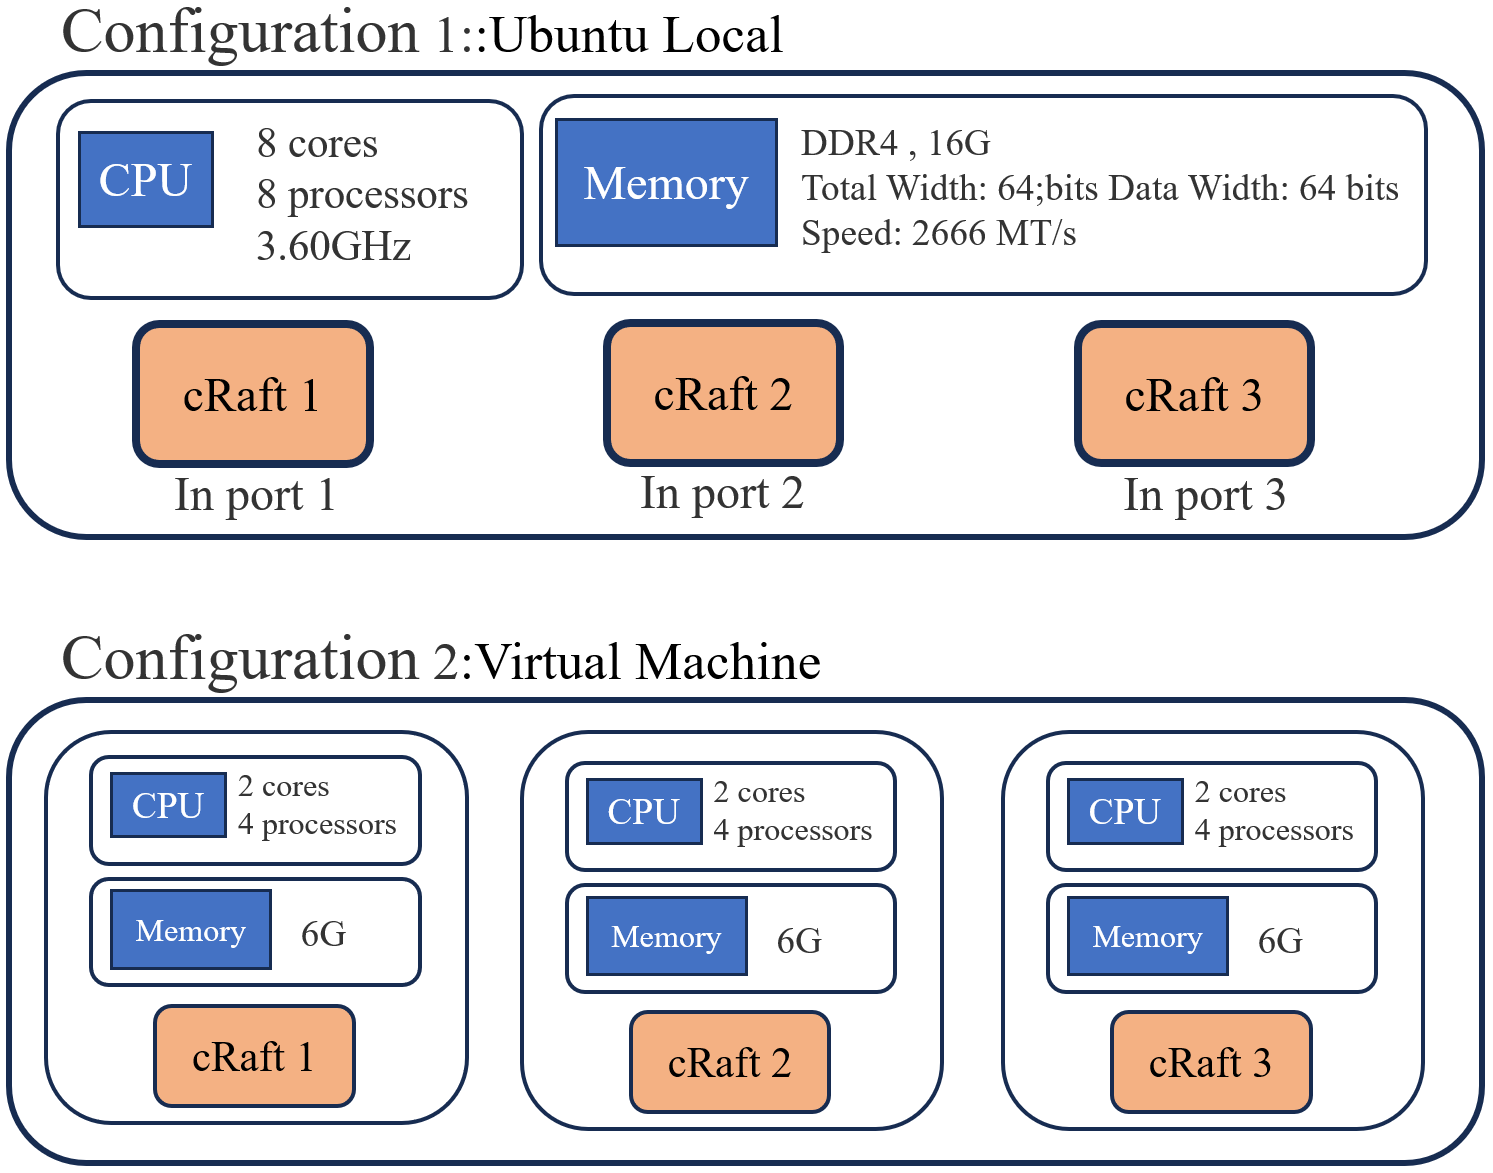
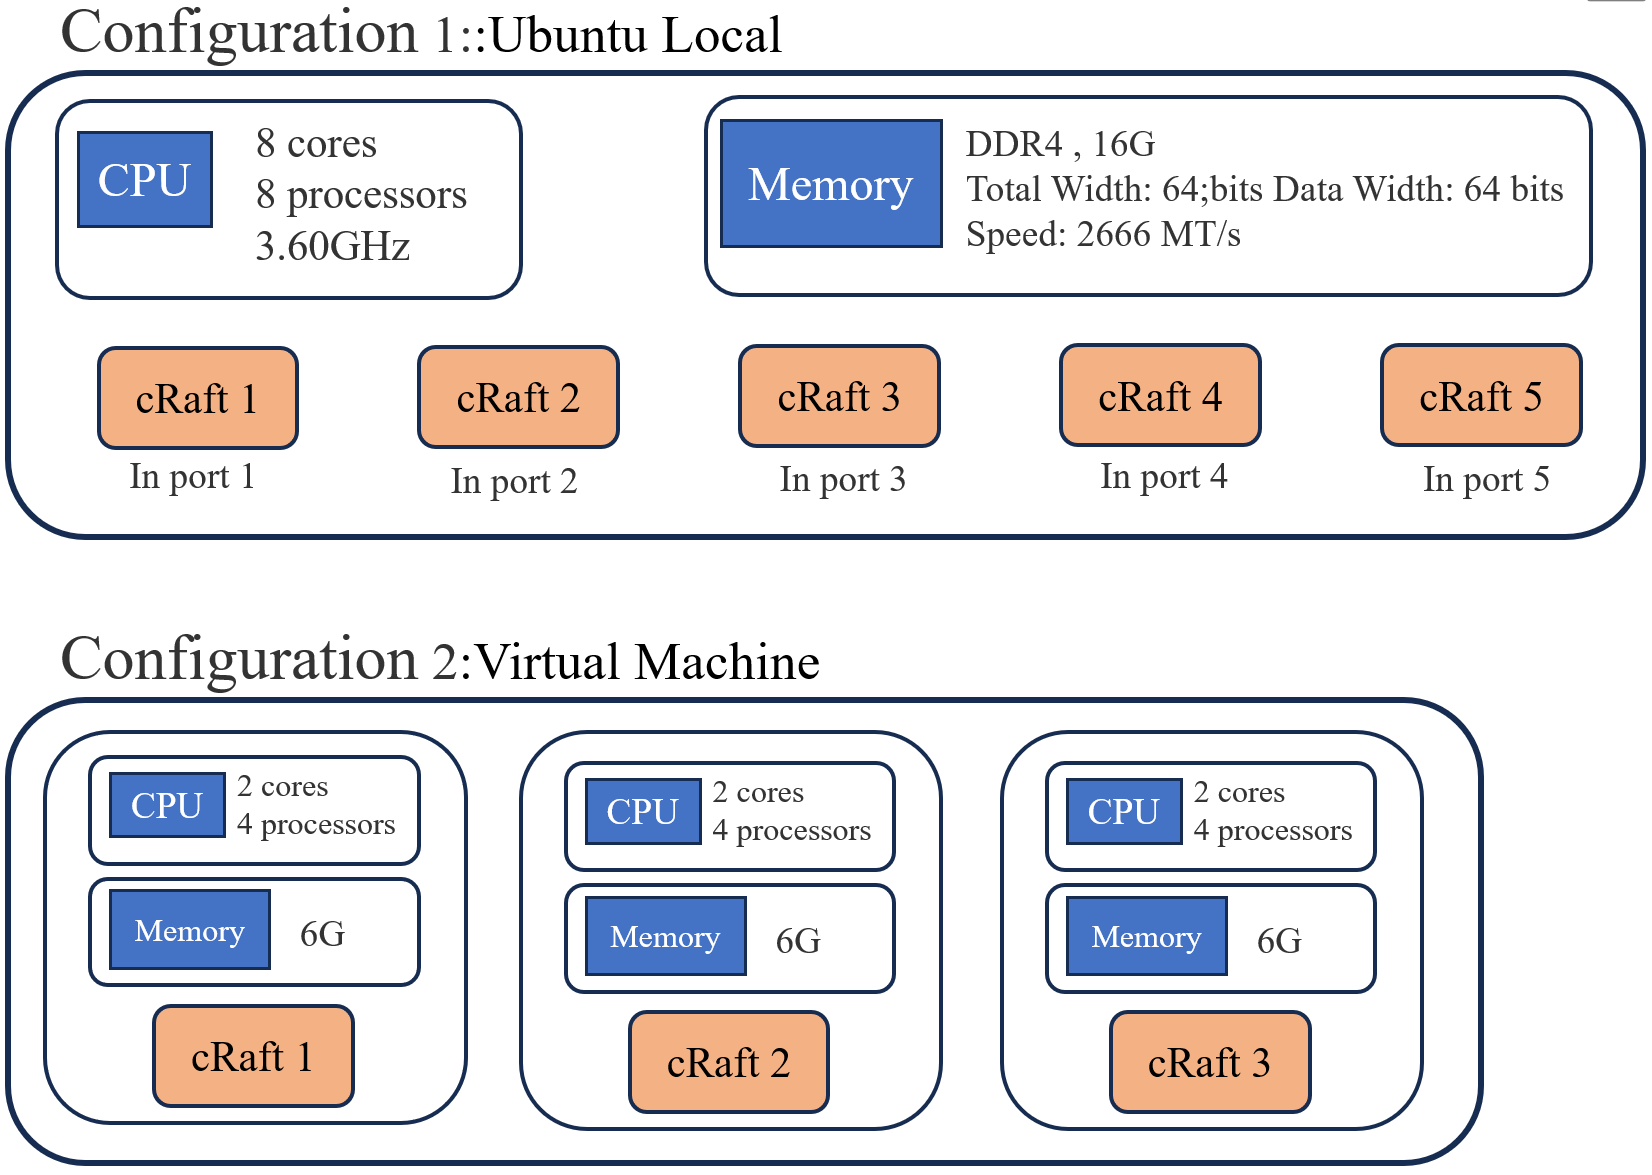
optimized cRaft performance

diff --git a/README.MD b/README.MD
@@ -36,7 +36,7 @@ Evaluation indicators: Cluster submission rate CSR (Cluster submission rate): Th
 
 ![](./img/cRaft-test.png)
 
-> Approximate test results of three cRaft nodes in two configuration environments:
+> Approximate test results of three and five cRaft nodes in two configuration environments:
 
 ![](./img/CSR.png)
 ## Install and use

diff --git a/zh/README.MD b/zh/README.MD
@@ -35,7 +35,7 @@ Raft原论文：[In Search of an Understandable Consensus Algorithm
 
 ![](../img/cRaft-test.png)
 
-> 在两种环境下的三台cRaft节点大致的测试结果：
+> 在两种环境下的三台和五台cRaft节点大致的测试结果：
 
 ![](../img/CSR.png)
 
